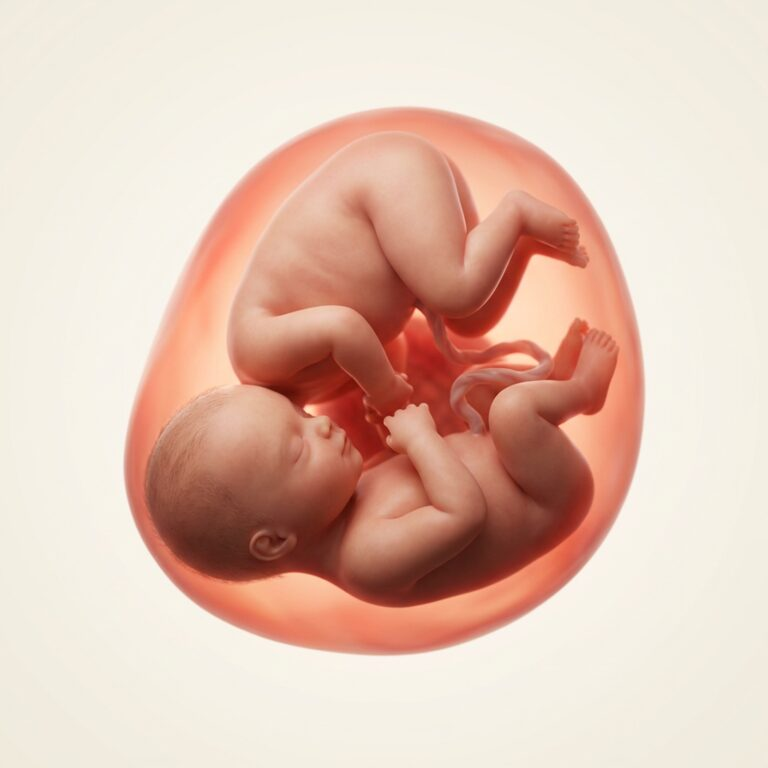
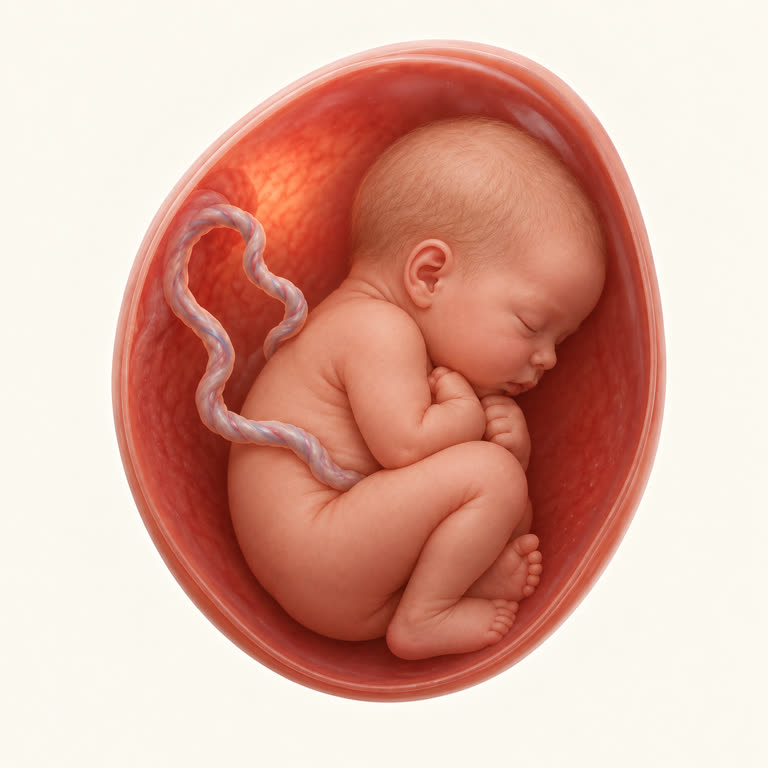
feat(baby): new illustrations for weeks 38 and 39
Week 38 had a picture that read as twins and week 39 reused it. Week 38 now shows the baby curled
up asleep and week 39 the baby head down, and the picture of the exact week is used when there is one.

diff --git a/constants/babyImages.ts b/constants/babyImages.ts
@@ -1,4 +1,4 @@
-// Baby illustrations from the design prototype, one every two weeks (8 to 40).
+// Baby illustrations: one every two weeks from the design prototype (8 to 40), plus week 39.
 const BABY_IMAGES: Record<number, any> = {
   8: require("@/assets/images/baby/w08.jpg"),
   10: require("@/assets/images/baby/w10.jpg"),
@@ -16,11 +16,12 @@ const BABY_IMAGES: Record<number, any> = {
   34: require("@/assets/images/baby/w34.jpg"),
   36: require("@/assets/images/baby/w36.jpg"),
   38: require("@/assets/images/baby/w38.jpg"),
+  39: require("@/assets/images/baby/w39.jpg"),
   40: require("@/assets/images/baby/w40.jpg"),
 };
 
-// Closest illustration at or below the given week (weeks before 8 use week 8)
+// The illustration of the week when there is one, else the closest one below (weeks before 8 use week 8)
 export const babyImageForWeek = (week: number) => {
   const clamped = Math.min(Math.max(week, 8), 40);
-  return BABY_IMAGES[clamped - (clamped % 2)];
+  return BABY_IMAGES[clamped] ?? BABY_IMAGES[clamped - (clamped % 2)];
 };
